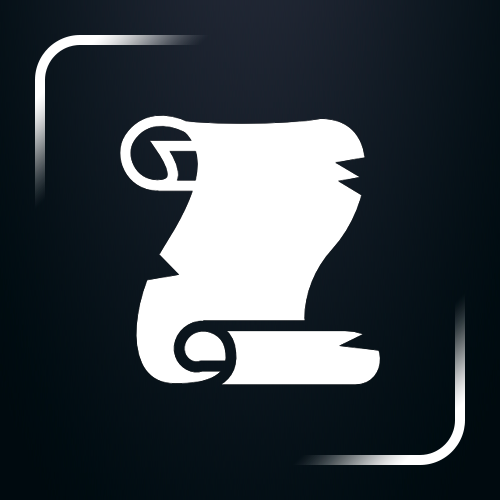
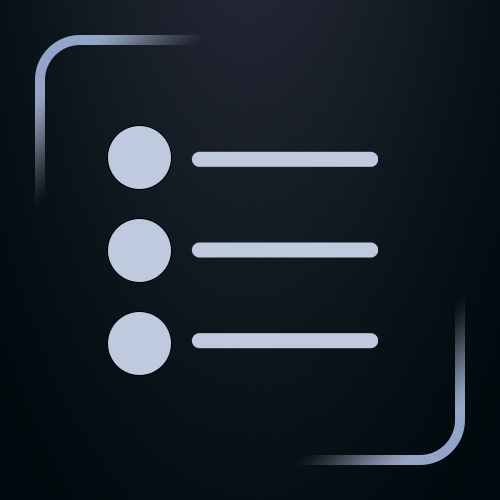
Added playlists directly to navidrome ui

Changed region(s): [[0.21, 0.21, 0.78, 0.78], [0.06, 0.06, 0.36, 0.36], [0.66, 0.66, 0.93, 0.93]]

diff --git a/plugins/shared/player/iplayer.py b/plugins/shared/player/iplayer.py
@@ -1,7 +1,7 @@
 from collections import defaultdict
 from enum import auto, IntEnum
 from ...IPlugin import IPlugin
-from .types import Artist, Album, Track
+from .types import Artist, Album, Track, Playlist
 from .vlc_player import VlcPlayer, VlcPlayerEvents
 
 import logging
@@ -39,7 +39,10 @@ class IPlayer(IPlugin):
         NEXT = auto()
 
     class ImageKeys(IntEnum):
-        ARTIST = 0
+        PLAYLIST = 0
+        RANDOM = auto()
+        LATEST = auto()
+        ARTIST = auto()
         ALBUM = auto()
         TRACK = auto()
         LOOP_ON = auto()
@@ -52,13 +55,13 @@ class IPlayer(IPlugin):
         PAUSED = auto()
         NEXT = auto()
 
-    image_keys = [ "artist.png", "album.png", "track.png", "loop-on.png", "loop-off.png", "shuffle.png", "add.png", "stop.png", "play.png", "playing.png", "paused.png", "next.png" ]
+    image_keys = [ "playlist.png", "random.png", "latest.png", "artist.png", "album.png", "track.png", "loop-on.png", "loop-off.png", "shuffle.png", "add.png", "stop.png", "play.png", "playing.png", "paused.png", "next.png" ]
 
     def __init__(self, app, config, font) -> None:
         super().__init__(app, config, font)
 
-        self._state = IPlayer.State.NONE
-        self._toggle_state = IPlayer.ToggleState.NONE
+        self._state : IPlayer.State = IPlayer.State.NONE
+        self._toggle_state : IPlayer.ToggleState = IPlayer.ToggleState.NONE
         self._client = None
         self._images : list[bytes] = None
         self._info_latch : bool = True
@@ -79,8 +82,9 @@ class IPlayer(IPlugin):
         self._artist_counter : int = 0
         self._album_counter : int = 0
         self._track_counter : int = 0
-        self._playlist_counter : int = -1
+        self._playlist_counter : int = 0
         self._artists : defaultdict[str, Artist] = defaultdict(list)
+        self._playlists : list[Playlist] = []
         self._last_enqueued_track : Track = None
         self._last_enqueued_album : Album = None
         self._last_enqueued_artist : Artist = None
@@ -167,6 +171,7 @@ class IPlayer(IPlugin):
                         if size > 0:
                             self._partition_counter = self._wrap(self._partition_counter, size)
                             self._show_partition()
+                            self._update_buttons()
                     case IPlayer.State.ARTISTS:
                         self._artist_counter += value
                         partition_key : str = self._partition_keys[self._partition_counter]
@@ -194,6 +199,11 @@ class IPlayer(IPlugin):
                         if size > 0: 
                             self._track_counter = self._wrap(self._track_counter, size)
                             self._show_track()
+                    case IPlayer.State.PLAYLIST:
+                        self._playlist_counter += value
+                        self._playlist_counter = self._wrap(self._playlist_counter, len(self._playlists))
+                        self._show_playlist()
+                        self._update_buttons()
                     case _:
                         return
             case 1:
@@ -264,8 +274,9 @@ class IPlayer(IPlugin):
                     self._show_partition()
                 case IPlayer.State.NONE:
                     self._show_partition()
+                case IPlayer.State.PLAYLIST:
+                    self._show_playlist()
                 case _:
-                    # playlist
                     pass
 
         self._update_buttons()
@@ -283,13 +294,24 @@ class IPlayer(IPlugin):
                 case IPlayer.State.NONE:
                     pass
                 case IPlayer.State.PARTITIONS:
-                    self._app.set_button_image(IPlayer.Buttons.ARTISTS, self._images[IPlayer.ImageKeys.ARTIST])
+                    
+                    partition_key : str = self._partition_keys[self._partition_counter].lower()
+                    if partition_key.startswith("latest"):
+                        self._app.set_button_image(IPlayer.Buttons.ARTISTS, self._images[IPlayer.ImageKeys.LATEST])
+                    elif partition_key.startswith("playlists"):
+                        self._app.set_button_image(IPlayer.Buttons.ARTISTS, self._images[IPlayer.ImageKeys.PLAYLIST])
+                    elif partition_key.startswith("random"):
+                        self._app.set_button_image(IPlayer.Buttons.ARTISTS, self._images[IPlayer.ImageKeys.RANDOM])
+                    else:
+                        self._app.set_button_image(IPlayer.Buttons.ARTISTS, self._images[IPlayer.ImageKeys.ARTIST])
                 case IPlayer.State.ARTISTS:
                     self._app.set_button_image(IPlayer.Buttons.ARTISTS, self._images[IPlayer.ImageKeys.ARTIST])
                 case IPlayer.State.ALBUMS:
                     self._app.set_button_image(IPlayer.Buttons.ARTISTS, self._images[IPlayer.ImageKeys.ALBUM])
                 case IPlayer.State.TRACKS:
                     self._app.set_button_image(IPlayer.Buttons.ARTISTS, self._images[IPlayer.ImageKeys.TRACK])
+                case IPlayer.State.PLAYLIST:
+                    self._app.set_button_image(IPlayer.Buttons.ARTISTS, self._images[IPlayer.ImageKeys.PLAYLIST])
 
             # toggle loop button
             if self._player.loop:
@@ -363,6 +385,17 @@ class IPlayer(IPlugin):
         except:
             pass
 
+    def _show_playlist(self) -> None:
+        try:
+            self._state = IPlayer.State.PLAYLIST
+            playlist : Playlist = self._playlists[self._playlist_counter]
+
+            self._log.debug(f"show_playlist :: {playlist.display_name}")
+            self._render(f"Playlist\n  :- {playlist.display_name}")
+
+        except Exception as ex:
+            self._log.error(ex)
+
     def _show_toggle_state(self) -> None:
         try:
             match self._toggle_state:
@@ -381,29 +414,14 @@ class IPlayer(IPlugin):
         except Exception as ex:
             self._log.error(ex)
 
-    def _show_playlist(self) -> None:
-        try:
-            track = self._player.playlist[self._playlist_counter]
-            size = len(self._player.playlist)
-            self._player_callback(
-                VlcPlayerEvents.INFO_MESSAGE, 
-                {
-                    "time": 0.5, 
-                    "message": f"Playlist\n({self._playlist_counter + 1}/{size}) : {track.display_name}", 
-                    "keep": True
-                }
-            )
-        except:
-            pass
-
-    def _enqueue(self, track : Track) -> None:
+    def _enqueue(self, track : Track, notify : bool = True) -> None:
         if self._last_enqueued_track == track:
             self._last_enqueued_track = None
             return
         try:
             if not track.url:
                 track.url = self._get_stream_for_track(track)
-            self._player.enqueue(track)
+            self._player.enqueue(track, notify)
             self._last_enqueued_track = track
         except Exception as ex:
             self._log.error(ex)
@@ -433,3 +451,15 @@ class IPlayer(IPlugin):
             self._last_enqueued_artist = artist
         except Exception as ex:
             self._log.error(ex)
+
+    def _enqueue_playlist(self) -> None:
+        playlist: Playlist = self._playlists[self._playlist_counter]
+        self._render("Adding Playlist...")
+        tracks: list[Track] = self._get_tracks_for_playlist_id(playlist.id)
+        for track in tracks:
+            self._enqueue(track, False)
+
+        self._player_callback(
+            VlcPlayerEvents.INFO_MESSAGE, 
+            { "time": 2, "message": f"Added: {playlist.display_name}", "keep": False }
+        )

diff --git a/plugins/subsonic/subsonic.py b/plugins/subsonic/subsonic.py
@@ -2,7 +2,7 @@ from collections import defaultdict
 from libsonic.connection import API_VERSION
 from urllib.parse import urlencode
 from ..shared.player.vlc_player import VlcPlayerEvents
-from ..shared.player.types import Artist, Album, Track
+from ..shared.player.types import Artist, Album, Track, Playlist
 from ..shared.player.iplayer import IPlayer
 import libsonic
 import random
@@ -46,20 +46,20 @@ class MySubsonicConnection(libsonic.Connection):
 
 class SubsonicPlugin(IPlayer):
 
-    partition_keys = [ "Latest Albums", "Random Album", "Random Tracks", "A", "B", "C", "D", "E", "F", "G", "H", "I", "J", "K", "L", "M", "N", "O", "P", "Q", "R", "S", "T", "U", "V", "W", "X-Z", "#" ]
+    partition_keys = [ "Playlists", "Latest Albums", "Random Album", "Random Tracks", "A", "B", "C", "D", "E", "F", "G", "H", "I", "J", "K", "L", "M", "N", "O", "P", "Q", "R", "S", "T", "U", "V", "W", "X-Z", "#" ]
     
     def __init__(self, app, config, font) -> None:
         super().__init__(app, config, font)
         # reset everything
         
-        self._state = IPlayer.State.NONE
-        self._toggle_state = IPlayer.ToggleState.NONE
-        self._info_latch = True
-        self._partition_counter = 0
-        self._artist_counter = 0
-        self._album_counter = 0
-        self._track_counter = 0
-        self._playlist_counter = -1
+        self._info_latch : bool = True
+        self._partition_counter : int = 0
+        self._playlist_counter : int = 0
+        self._artist_counter : int = 0
+        self._album_counter : int = 0
+        self._track_counter : int = 0
+
+        self._playlists : list[Playlist] = []
 
     def on_dial_pushed(self, deck, dial, state):
         super().on_dial_pushed(deck, dial,state)
@@ -71,8 +71,15 @@ class SubsonicPlugin(IPlayer):
                 match self._state:
                     case IPlayer.State.PARTITIONS:
                         # make sure we have artists loaded for this 
-                        partition_key = self._partition_keys[self._partition_counter]
+                        partition_key : str = self._partition_keys[self._partition_counter]
                         match partition_key.lower():
+                            case "playlists":
+                                if len(self._playlists) == 0:
+                                    self._playlists = self._get_playlists()
+                                if len(self._playlists) > 0:
+                                    self._playlist_counter = 0
+                                    self._show_playlist()
+                                    self._update_buttons()
                             case "latest albums":
                                 self._add_latest_albums()
                             case "random album":
@@ -133,6 +140,9 @@ class SubsonicPlugin(IPlayer):
                         album = artist.albums[self._album_counter]
                         track : Track = album.tracks[self._track_counter]
                         self._enqueue(track)
+                        return
+                    case IPlayer.State.PLAYLIST:
+                        self._enqueue_playlist()
                         return
                     case _:
                         return
@@ -259,6 +269,45 @@ class SubsonicPlugin(IPlayer):
             self._log.error(ex)
             return results
 
+    def _get_playlists(self) -> list[Playlist]:
+        results: list[Playlist] = []
+        try:
+            returned = self._client.getPlaylists()
+            playlists = returned["playlists"]
+            if None != playlists:
+                for playlist in playlists["playlist"]:
+                    results.append(Playlist(playlist["id"], playlist["name"], int(playlist["songCount"])))
+
+        except Exception as ex:
+            self._log.error(ex)
+
+        return results
+
+    def _get_playlist_by_name(self, search: str) -> list[Playlist]:
+        results : list[Playlist] = []
+        try:
+            playlists : dict = self._client.getPlaylists()
+            for playlist in playlists["playlists"]["playlist"]:
+                 if playlist_name == playlist["name"].lower():
+                    print(playlist)
+        except Exception as ex:
+            print(ex)
+        return results
+
+    def _get_tracks_for_playlist_id(self, playlist_id : str, shuffle : bool = False) -> list[Track]:
+
+        songs : dict = self._client.getPlaylist(playlist_id)
+
+        tracks : list[Track] = []
+        for song  in songs["playlist"]["entry"]:
+            track : Track = Track(song["id"], song["title"], song["album"], song["artist"], 0)
+            tracks.append(track)
+           
+        if shuffle:
+            random.shuffle(tracks)
+
+        return tracks
+
     def action_from_string(self, action: str) -> None:
         super().action_from_string(action)
 
@@ -281,16 +330,8 @@ class SubsonicPlugin(IPlayer):
                     if playlist_name == playlist["name"].lower():
                         song_count : int = int(playlist["songCount"])
                         self._log.debug(f"Found playlist {playlist_name} with {song_count} songs")
-                        songs = self._client.getPlaylist(playlist["id"])
+                        tracks : list[Track] = self._get_tracks_for_playlist_id(playlist["id"], shuffle)
 
-                        tracks : list[Track] = []
-                        for song in songs["playlist"]["entry"]:
-                            track = Track(song["id"], song["title"], song["album"], song["artist"], 0)
-                            tracks.append(track)
-                        
-                        if shuffle:
-                            random.shuffle(tracks)
-                        
                         for track in tracks:
                             self._enqueue(track)
 
@@ -472,6 +513,8 @@ class SubsonicPlugin(IPlayer):
                         album : Album = artist.albums[self._album_counter]
                         track : Track = album.tracks[self._track_counter]
                         self._enqueue(track)
+                    case IPlayer.State.PLAYLIST:
+                        self._enqueue_playlist()
                     case _:
                         pass
             case IPlayer.Buttons.STOP:

diff --git a/plugins/shared/player/types.py b/plugins/shared/player/types.py
@@ -162,3 +162,51 @@ class Track():
     @display_name.setter
     def display_name(self, value : str) -> None:
         self._display_name = string.capwords(value.replace("_", " "))
+
+class Playlist():
+
+    key : str = "Playlist"
+
+    def __init__(self, id : str, name : str, song_count : int = 0) -> None:
+        self._id : str = id
+        self._name : str = name
+        self._display_name : str = string.capwords(name.replace("_", " "))
+        self._num_tracks : int = song_count
+        self._tracks : list[Track] = []
+
+    def __lt__(self, other):
+        return isinstance(other, Playlist) and self.index < other.index
+
+    def __str__(self) -> str:
+        return json.dumps(self.toJSON())
+
+    def toJSON(self) -> dict:
+        return {
+            "id" : self.id,
+            "name" : self.name,
+            "num_tracks": self.num_tracks
+        }
+
+    @property
+    def id(self) -> str:
+        return self._id
+
+    @property
+    def name(self) -> str:
+        return self._name
+
+    @property
+    def num_tracks(self) -> int:
+        return self._num_tracks
+
+    @property
+    def tracks(self) -> list[Track]:
+        return self._tracks
+
+    @property
+    def display_name(self):
+        return self._display_name
+
+    @display_name.setter
+    def display_name(self, value : str) -> None:
+        self._display_name = string.capwords(value.replace("_", " "))

diff --git a/plugins/shared/player/vlc_player.py b/plugins/shared/player/vlc_player.py
@@ -341,7 +341,7 @@ class VlcPlayer:
         if self._rotation_counter > 1:
             self._rotation_counter = 0
 
-    def enqueue(self, track : Track) -> None:
+    def enqueue(self, track : Track, notify : bool = True) -> None:
         if self.loop and self._now_playing is not None:
             try:
                 index : int = max(0, self.playlist.index(self._now_playing))
@@ -352,7 +352,8 @@ class VlcPlayer:
             self.playlist.append(track)
         self._log.debug(f"Added track {track.display_name} - ({track.index})")
         self._log.debug(f"Playlist size : {len(self.playlist)}")
-        self._info_callback("Added", 0.5, False)
+        if notify:
+            self._info_callback("Added", 0.5, False)
 
     def enqueue_album(self, name : str, tracks : list[Track]) -> None:
         self.playlist.extend(tracks)
